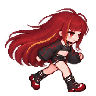
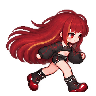
fix(runner): refine Yuni and Lize run poses
Keep the twelve-frame cadence while stabilizing wing, hair, and leg silhouettes in new versioned source sheets. Rebuild only their runtime atlases.

Plan: 2026-10-26-running-action-redesign

Changed region(s): [[0.0312, 0.0625, 0.9375, 0.9688]]

diff --git a/assets/character/locomotion/RUN_CYCLE_V3.md b/assets/character/locomotion/RUN_CYCLE_V3.md
@@ -6,12 +6,14 @@ These four transparent 4-column by 3-row source sheets replace the earlier eight
 | --- | --- | --- |
 | Aokumo Rin | `aokumo-rin-run-cycle-v3.png` | `run-00`–`run-11` |
 | Shizuki Toa | `shizuki-toa-run-cycle-v3.png` | `goth-student-run-00`–`goth-student-run-11` |
-| Ayatsuno Yuni | `ayatsuno-yuni-run-cycle-v3.png` | `moonwing-run-00`–`moonwing-run-11` |
-| Akane Lize | `akane-lize-run-cycle-v3.png` | `akane-lize-run-00`–`akane-lize-run-11` |
+| Ayatsuno Yuni | `ayatsuno-yuni-run-cycle-v4.png` | `moonwing-run-00`–`moonwing-run-11` |
+| Akane Lize | `akane-lize-run-cycle-v4.png` | `akane-lize-run-00`–`akane-lize-run-11` |
 
 ## Image generation brief
 
 Each sheet was generated with the built-in image generation tool using its character's existing runtime atlas as the pixel-art identity reference and its portrait as a costume reference. The shared brief requested twelve consecutive right-facing running poses in a transparent 4×3 grid, a right-leg stride followed by a left-leg stride, arms counter-swinging against the legs, consistent face/costume/proportions, a steady torso scale and baseline, and full limbs inside every cell. Character-specific details retained Rin's blue maid outfit, Toa's purple school uniform, Yuni's horn and wings, and Lize's red hair and dark jacket.
+
+Yuni and Lize received a second image-generation edit pass after the initial four-character refresh. Yuni's follow-up brief requested steady horn, wing, and hair silhouettes while preserving clear alternating boots. Lize's requested distinct knees and boots, counter-swinging arms, and steadier red-hair volume. Their `v3` source sheets remain in this directory for comparison; the atlas configs now use the `v4` sheets.
 
 ## Runtime preparation
 

diff --git a/.memory/phases/2026-10-26-running-action-redesign/P01-characters-and-entry/T02-runner-action-poses.md b/.memory/phases/2026-10-26-running-action-redesign/P01-characters-and-entry/T02-runner-action-poses.md
@@ -4,7 +4,7 @@
 
 ## Follow-up: natural run cycle
 
-- The first pass used four key poses and four independently generated in-between poses. A later follow-up replaced that run row for all four characters with a cohesive twelve-pose source sheet per character (`assets/character/locomotion/*-run-cycle-v3.png`). Runtime frames are `run-00` through `run-11` at 96x96; the selector loops them in 768ms. Old source sheets remain as versioned reference assets. The future runner must use the twelve-frame atlas cycle.
+- The first pass used four key poses and four independently generated in-between poses. A later follow-up replaced that run row for all four characters with cohesive twelve-pose source sheets (`assets/character/locomotion/*-run-cycle-v3.png`). Yuni and Lize received `v4` revisions for steadier silhouettes and gait. Runtime frames are `run-00` through `run-11` at 96x96; the selector loops them in 768ms. Old source sheets remain as versioned reference assets. The future runner must use the twelve-frame atlas cycle.
 
 ## Goal
 
